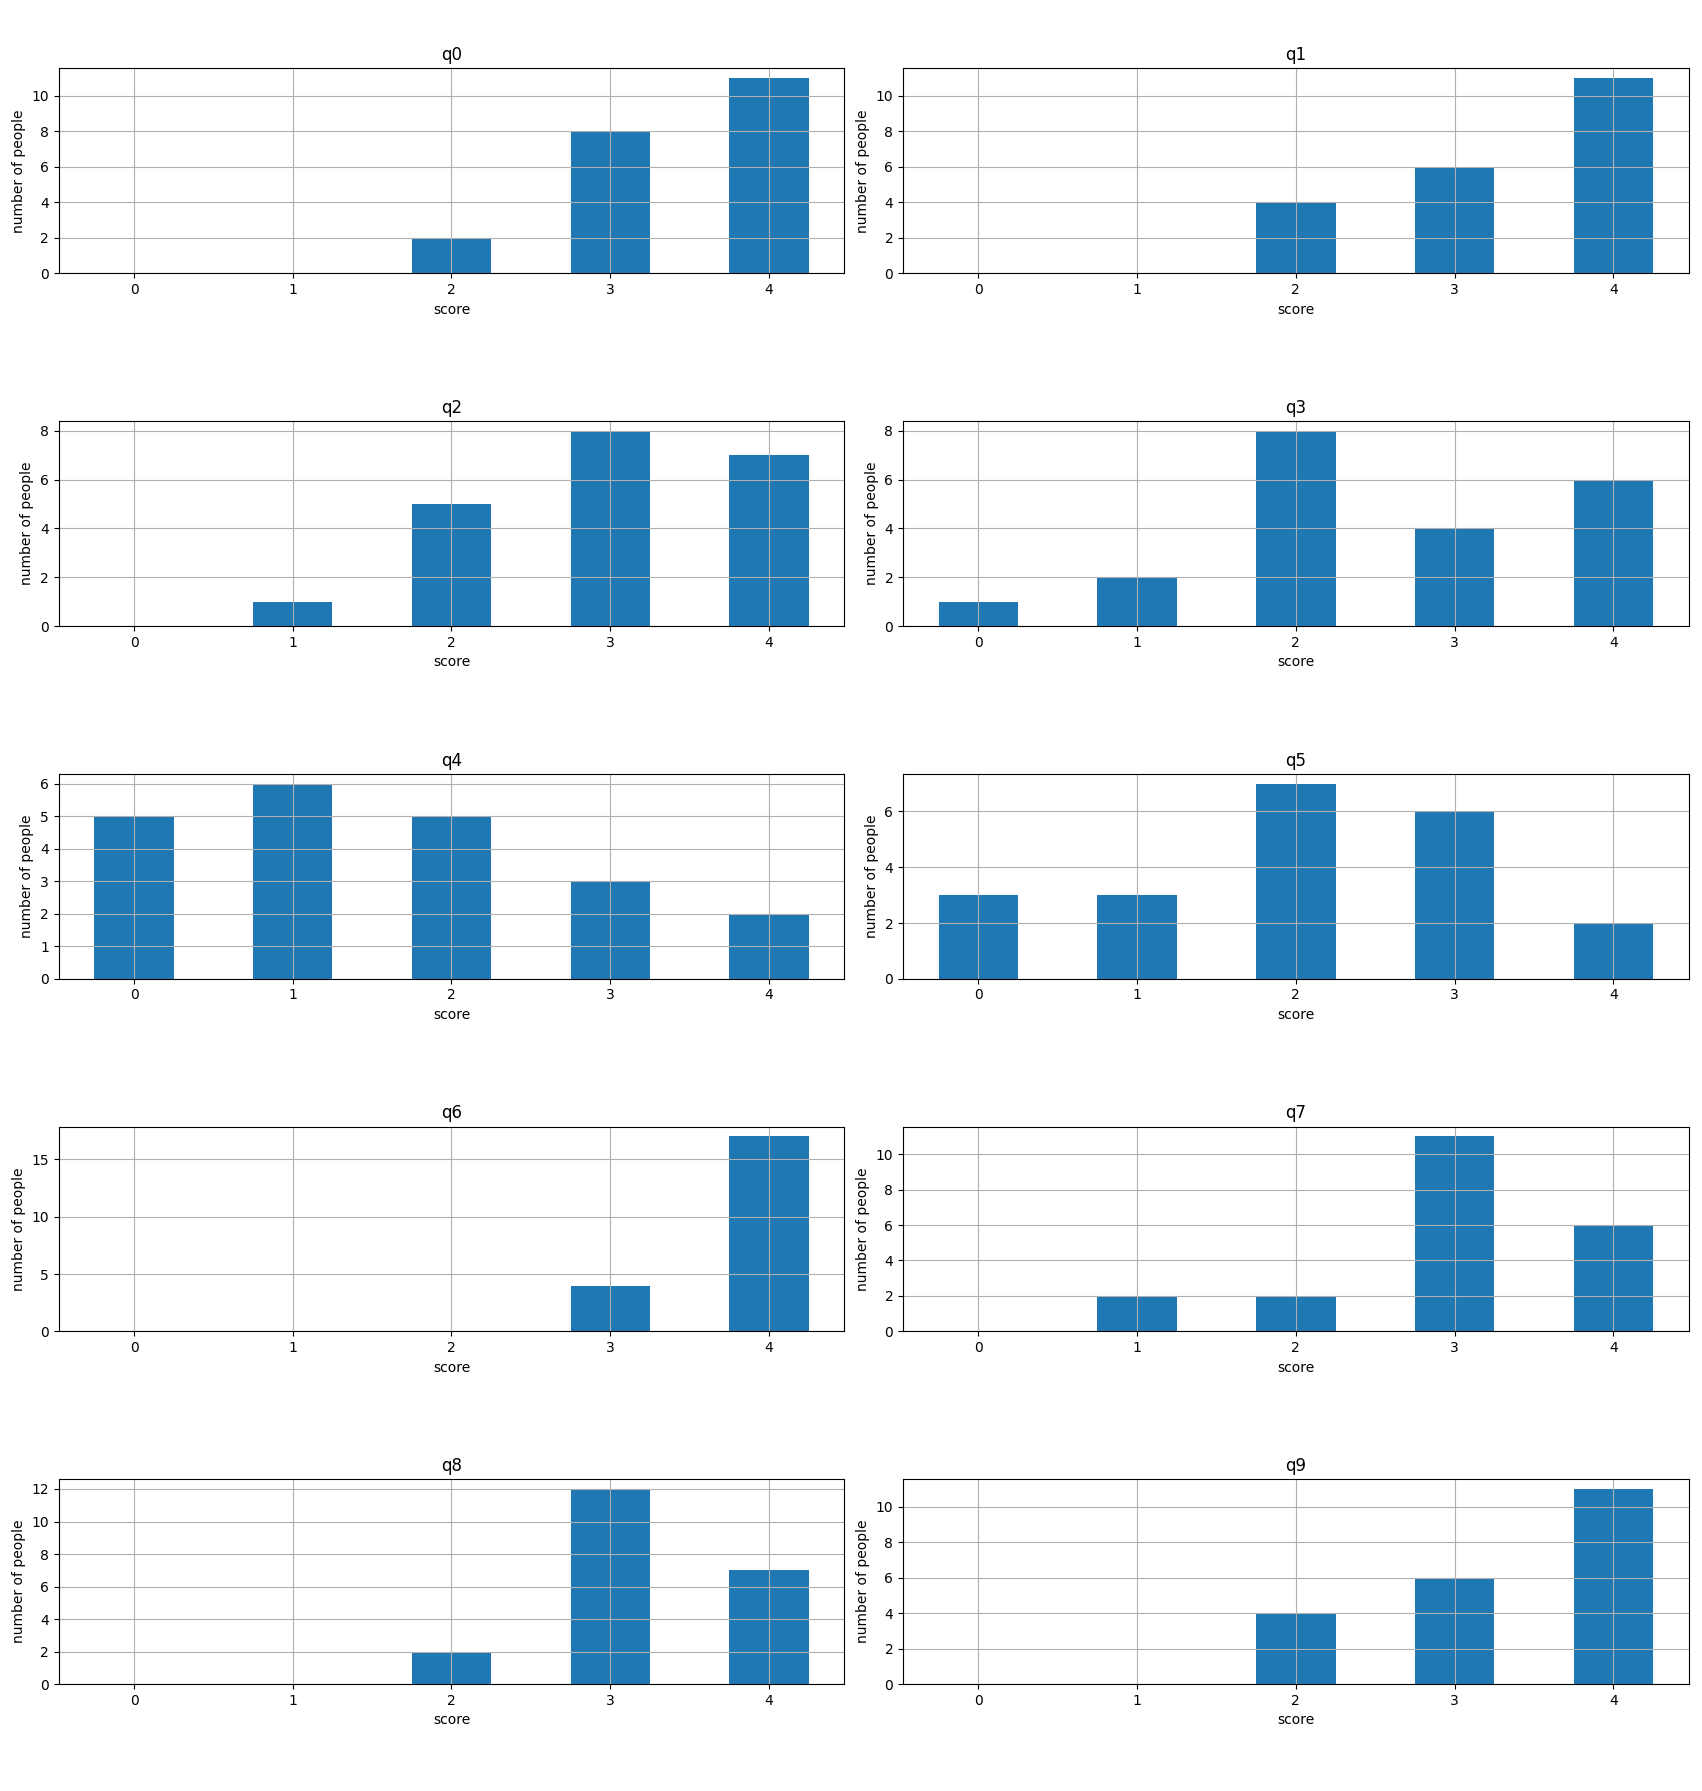
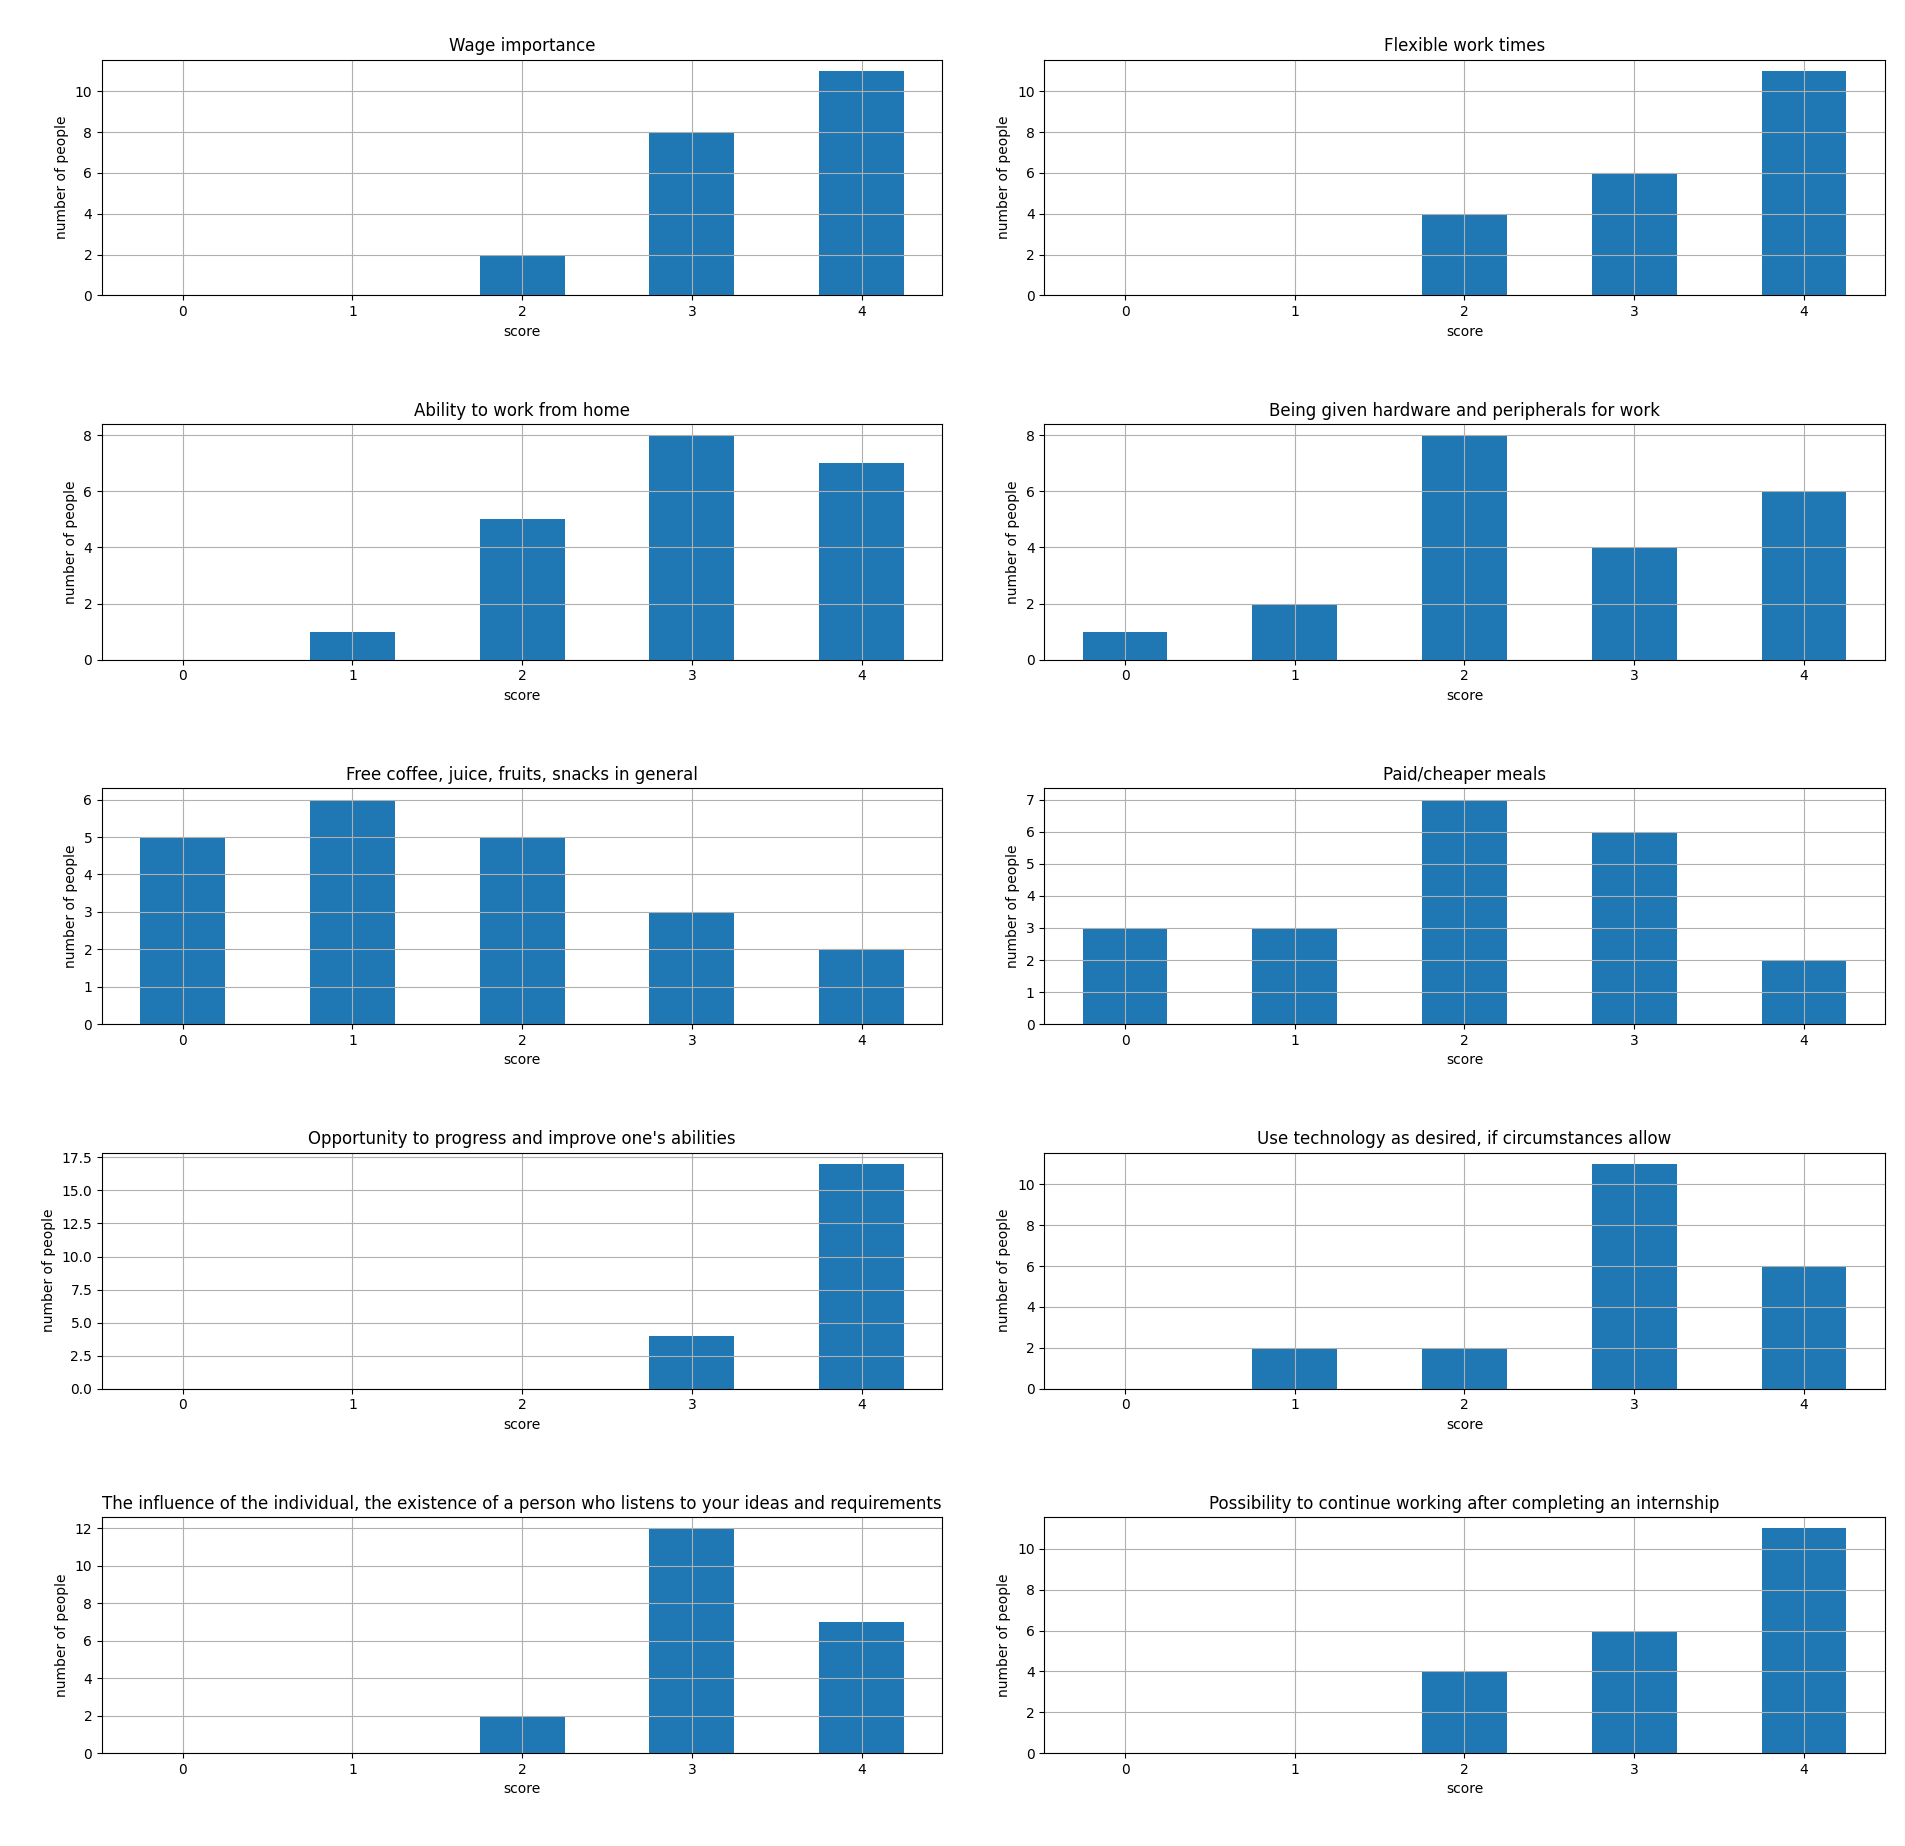
Modified true title to be displayed over the graph.

diff --git a/process.py b/process.py
@@ -34,11 +34,18 @@ plt.ylabel('number of people')
 # histograms for q0 - q9
 # number of questions ranging from 0-10
 # score ranges from 0-4, important-non important
+titles = ["Wage importance", "Flexible work times", "Ability to work from home", 
+          "Being given hardware and peripherals for work", "Free coffee, juice, fruits, snacks in general", 
+          "Paid/cheaper meals", "Opportunity to progress and improve one's abilities",
+          "Use technology as desired, if circumstances allow", 
+          "The influence of the individual, the existence of a person who listens to your ideas and requirements", 
+          "Possibility to continue working after completing an internship"]
 nqs = 10
 qs = ['q'+str(i) for i in range(nqs)]
 binrange = [-0.5, 0.5, 1.5, 2.5, 3.5, 4.5]
 hists = poll[qs].hist(layout=(5, int(nqs/5)), bins=binrange, rwidth=0.5, figsize=(5, 2))
-for hist in hists.flatten():
+for title, hist in zip(titles, hists.flatten()):
+    hist.title.set_text(title)
     hist.set_ylabel('number of people')
     hist.set_xlabel('score')
 

diff --git a/readme.md b/readme.md
@@ -52,18 +52,6 @@ One student noted in the internship hourly wage field how just by having a paid 
 
 For this section, each question had an accompanying scoring system attached to it ranging from 0 to 4, indicating the value of the given question or in other words, service/characteristic of the employer.
 
-For ease of visualization each question was shortened to the form of:
-- q0 - Wage importance
-- q1 - Flexible work times
-- q2 - Ability to work from home
-- q3 - Being given hardware and peripherals for work
-- q4 - Free coffee, juice, fruits, snacks in general
-- q5 - Paid/cheaper meals
-- q6 - Opportunity to progress and improve one's abilities
-- q7 - Use technology as desired, if circumstances allow
-- q8 - The influence of the individual, the existence of a competent person who listens to your ideas and requirements
-- q9 - Possibility to continue working after completing an internship
-
 ![Histograms of questions](./graphs/histograms-q0-q9.png)
 
 ### Location preference
